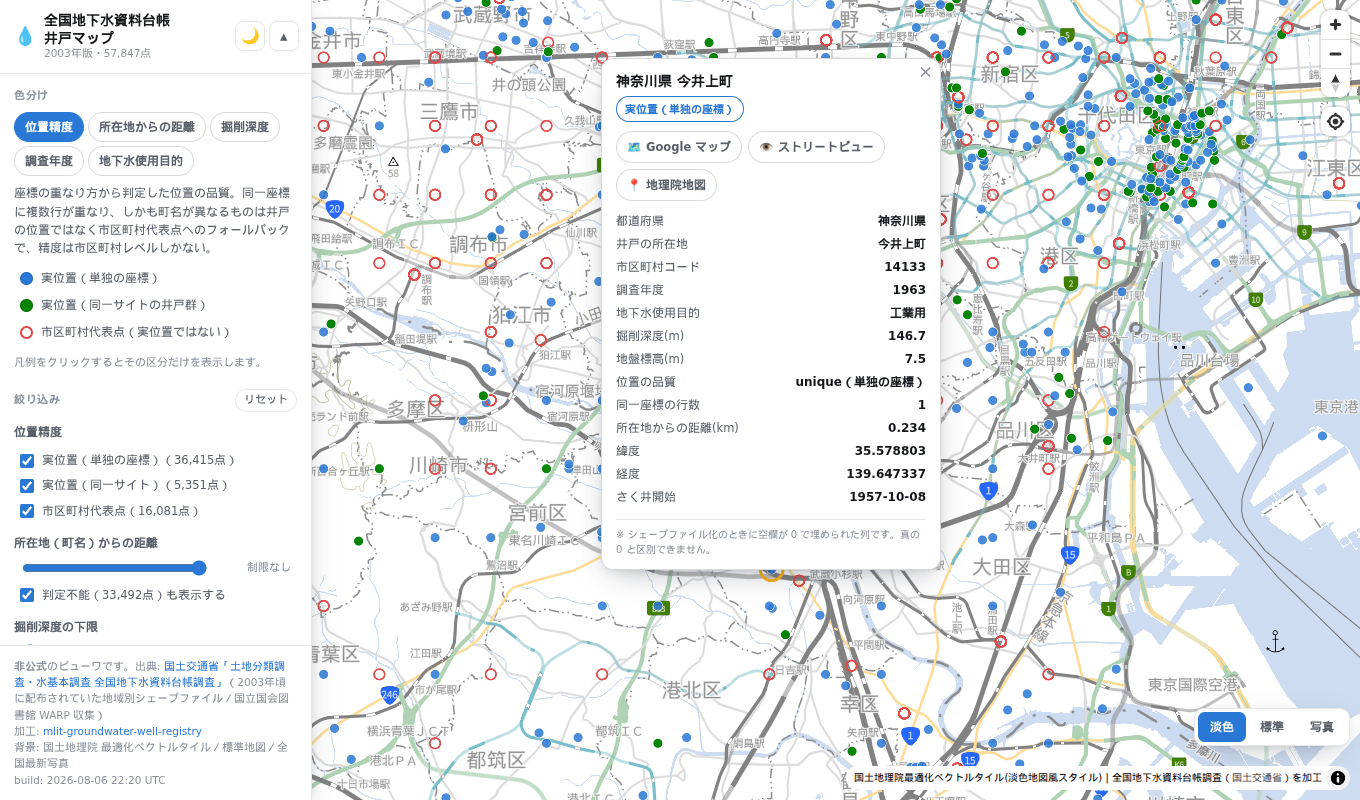
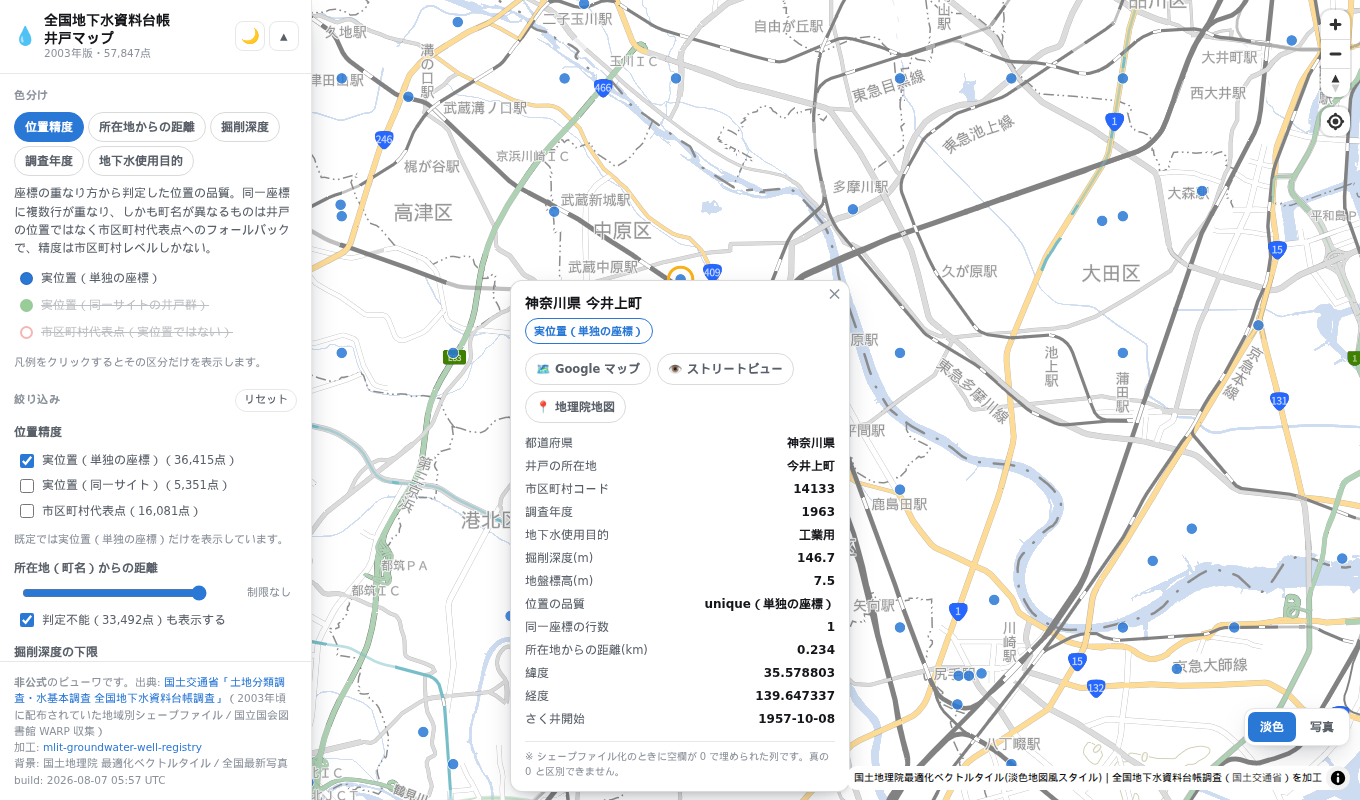
ビューワの既定表示を実位置（単独の座標）だけにする
57,847点を全部出す既定では、地図を開いた人がまず「点がある＝そこに井戸がある」と
読んでしまう。実際には16,081点が市区町村代表点、5,351点が同一サイトへの相乗りで、
そのまま信用できるのは unique の36,415点だけ。

initialFilter() の既定を unique のみにした。位置精度の絞り込みは filterExpr() で
主題によらず適用されるので、5つの色分けすべてに効く。リセットも initialFilter() を
使い回して既定と揃えた。

副作用として、位置精度テーマの凡例に押しても何も出ない行ができるため、
隠している区分の行は淡く表示し、押すと表示に戻すようにした。
「輪郭のみの点は市区町村代表点」の注記は fallback を表示しているときだけ出す。

README の該当節と、標準地図ボタンが写っていて古くなっていたスクリーンショットも
現状に合わせて更新。

Claude-Session: https://claude.ai/code/session_016BoyH72USLzM9FDSyEPTzy

diff --git a/viewer/src/main.ts b/viewer/src/main.ts
@@ -206,10 +206,14 @@ function renderLegend(): void {
   const def = themeOf(themeKey)
   legendEl.innerHTML = ''
   for (const it of legendFor(def, theme)) {
+    // 位置精度テーマの凡例は絞り込みのチェックボックスと同じ区分を指しているので、
+    // 隠している区分の行を押しても何も出ない。行を淡くして、押したら表示に戻す。
+    const hiddenPosq = def.key === 'posq' && !filter.posq.has(it.id)
     const row = document.createElement('button')
     row.type = 'button'
-    row.className = 'lg-row'
-    row.setAttribute('aria-pressed', String(filter.isolate === it.id))
+    row.className = hiddenPosq ? 'lg-row lg-row-off' : 'lg-row'
+    row.setAttribute('aria-pressed', String(!hiddenPosq && filter.isolate === it.id))
+    if (hiddenPosq) row.title = '絞り込みで非表示にしています。押すと表示に戻します。'
     const sw = document.createElement('span')
     sw.className = it.hollow ? 'lg-sw lg-sw-hollow' : 'lg-sw'
     if (it.hollow) sw.style.borderColor = it.color
@@ -218,14 +222,21 @@ function renderLegend(): void {
     label.textContent = it.label
     row.append(sw, label)
     row.addEventListener('click', () => {
-      filter.isolate = filter.isolate === it.id ? null : it.id
+      if (hiddenPosq) {
+        filter.posq.add(it.id)
+        syncPosqChecks()
+        renderCount()
+      } else {
+        filter.isolate = filter.isolate === it.id ? null : it.id
+      }
       renderLegend()
       repaint()
     })
     legendEl.append(row)
   }
-  // 主題が位置精度でなくても輪郭のみ＝fallback は効いているので、その説明を添える
-  if (def.key !== 'posq') {
+  // 主題が位置精度でなくても輪郭のみ＝fallback は効いているので、その説明を添える。
+  // ただし fallback を隠しているときは指すものが無いので出さない。
+  if (def.key !== 'posq' && filter.posq.has('fallback')) {
     const note = document.createElement('p')
     note.className = 'hint hint-sub'
     note.textContent = '輪郭のみの点は市区町村代表点（実位置ではない）です。'
@@ -249,10 +260,12 @@ function buildPosqFilters(): void {
     label.className = 'check'
     const cb = document.createElement('input')
     cb.type = 'checkbox'
+    cb.dataset.q = q
     cb.checked = filter.posq.has(q)
     cb.addEventListener('change', () => {
       if (cb.checked) filter.posq.add(q)
       else filter.posq.delete(q)
+      renderLegend()
       repaint()
       renderCount()
     })
@@ -260,6 +273,13 @@ function buildPosqFilters(): void {
     t.textContent = `${POSQ_LABEL[q]}（${(counts[q] ?? 0).toLocaleString()}点）`
     label.append(cb, t)
     posqDiv.append(label)
+  }
+}
+
+/** チェックボックスの見た目を filter.posq に合わせ直す（凡例やリセットから変えたとき）。 */
+function syncPosqChecks(): void {
+  for (const cb of posqDiv.querySelectorAll<HTMLInputElement>('input')) {
+    cb.checked = filter.posq.has(cb.dataset.q as string)
   }
 }
 
@@ -294,12 +314,9 @@ depRange.addEventListener('input', () => {
 })
 
 ;(document.getElementById('filter-reset') as HTMLButtonElement).addEventListener('click', () => {
-  filter.posq = new Set(POS_QUALITIES)
-  filter.maxDist = null
-  filter.includeUnknownDist = true
-  filter.minDep = 0
-  filter.isolate = null
-  for (const cb of posqDiv.querySelectorAll<HTMLInputElement>('input')) cb.checked = true
+  // 初期状態の定義は initialFilter() ひとつに置く（既定の位置精度もそこ）
+  Object.assign(filter, initialFilter())
+  syncPosqChecks()
   distRange.value = String(DIST_STOPS.length)
   distVal.textContent = '制限なし'
   distUnknown.checked = true

diff --git a/viewer/src/layers.ts b/viewer/src/layers.ts
@@ -15,6 +15,16 @@ export const DEFAULT_OPACITY = stylesJson.defaultOpacity
 export const POS_QUALITIES = ['unique', 'site', 'fallback'] as const
 export type PosQuality = (typeof POS_QUALITIES)[number]
 
+/**
+ * 既定で表示する位置精度。`unique`（実位置・単独の座標）36,415点だけを出す。
+ *
+ * 全57,847点のうち16,081点は市区町村代表点、5,351点は同一サイトへの相乗りで、
+ * 初見の人が地図を開いたときに「点がある＝そこに井戸がある」と読んでしまう。
+ * 既定を「そのまま信用してよい点」に揃えて、残りはチェックボックスで足してもらう。
+ * どの主題（色分け）で見ていても位置精度の絞り込みは共通に効く。
+ */
+export const DEFAULT_POSQ: readonly PosQuality[] = ['unique']
+
 // ---- テーマ（色分けの主題） ----
 
 interface CatDef {
@@ -165,7 +175,7 @@ export interface FilterState {
 
 export function initialFilter(): FilterState {
   return {
-    posq: new Set(POS_QUALITIES),
+    posq: new Set<string>(DEFAULT_POSQ),
     maxDist: null,
     includeUnknownDist: true,
     minDep: 0,

diff --git a/viewer/src/style.css b/viewer/src/style.css
@@ -280,6 +280,16 @@ body {
   box-shadow: inset 2px 0 0 var(--accent);
 }
 
+/* 絞り込みで隠している区分。押すと表示に戻せるので、無効化ではなく減光で示す */
+.lg-row-off {
+  opacity: 0.4;
+  text-decoration: line-through;
+}
+
+.lg-row-off:hover {
+  opacity: 0.75;
+}
+
 .lg-sw {
   flex: none;
   width: 13px;

diff --git a/viewer/index.html b/viewer/index.html
@@ -50,6 +50,7 @@
 
         <div class="sub-label">位置精度</div>
         <div id="posq-filters" class="checks"></div>
+        <p class="hint hint-sub">既定では実位置（単独の座標）だけを表示しています。</p>
 
         <div class="sub-label">所在地（町名）からの距離</div>
         <div class="range-row">
